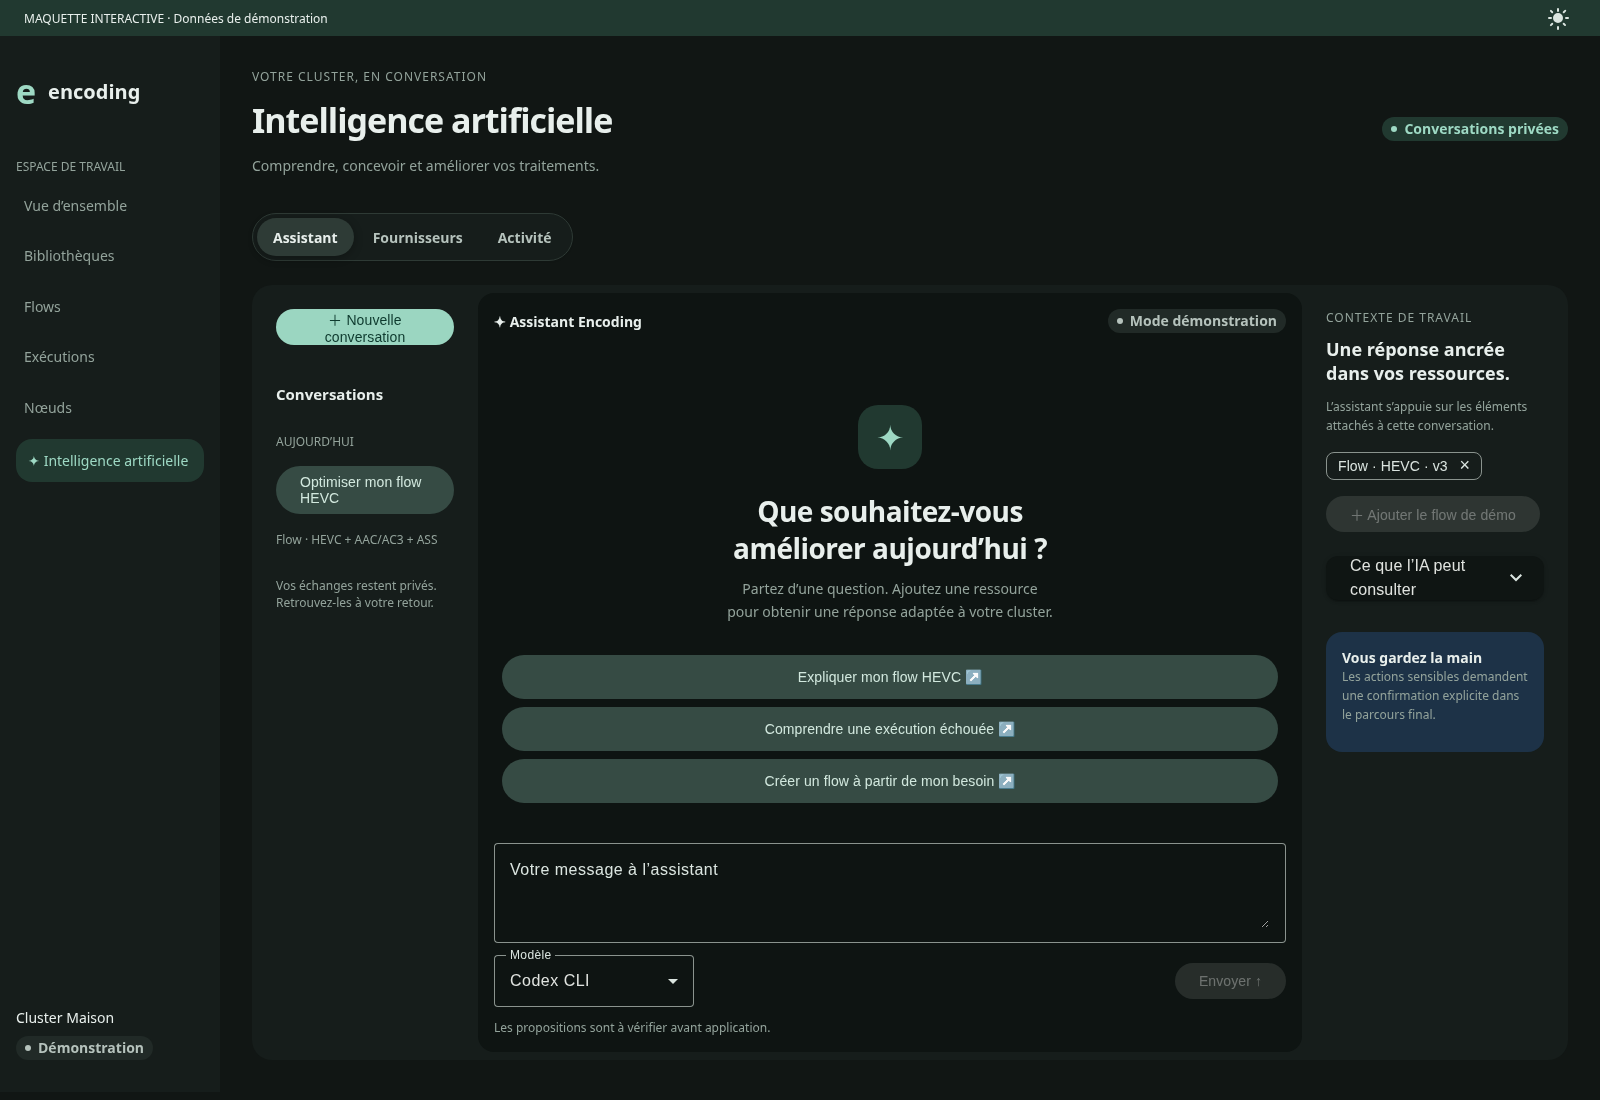
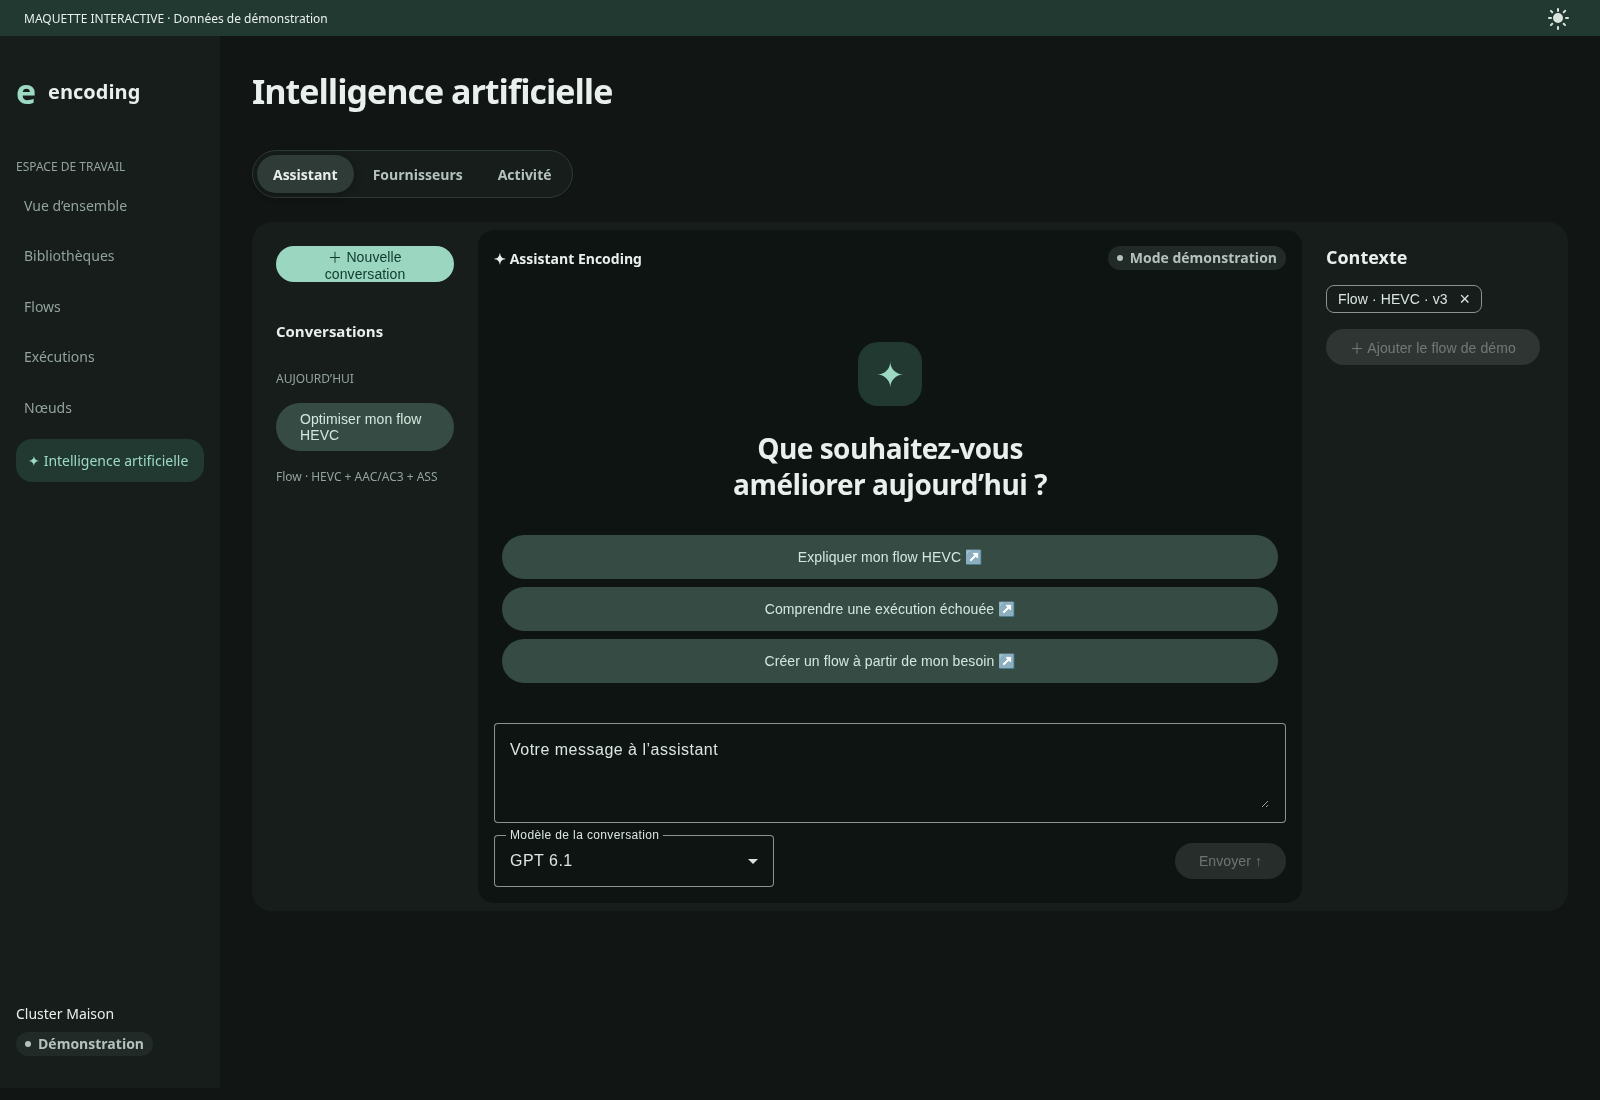
design(ai): simplify workspace and add model availability controls

diff --git a/frontend/mockups/ai/mockup.html b/frontend/mockups/ai/mockup.html
@@ -18,11 +18,8 @@
   <main>
     <header class="page-heading">
       <div>
-        <div class="eyebrow">VOTRE CLUSTER, EN CONVERSATION</div>
         <h1>Intelligence artificielle</h1>
-        <p>Comprendre, concevoir et améliorer vos traitements.</p>
       </div>
-      <app-status-badge label="Conversations privées" tone="accent" />
     </header>
     <app-category-tabs
       label="Espace IA"
@@ -40,7 +37,6 @@
             Optimiser mon flow HEVC
           </button>
           <p class="muted">Flow · HEVC + AAC/AC3 + ASS</p>
-          <span class="muted">Vos échanges restent privés.<br />Retrouvez-les à votre retour.</span>
         </aside>
         <section class="chat" aria-label="Assistant">
           <div class="chat-toolbar">
@@ -52,10 +48,6 @@
               <div class="welcome">
                 <div class="spark">✦</div>
                 <h2>Que souhaitez-vous<br />améliorer aujourd’hui ?</h2>
-                <p>
-                  Partez d’une question. Ajoutez une ressource<br />pour obtenir une réponse adaptée
-                  à votre cluster.
-                </p>
               </div>
               <div class="suggestions">
                 @for (suggestion of suggestions; track suggestion) {
@@ -103,23 +95,26 @@
             </mat-form-field>
             <div class="compose-actions">
               <mat-form-field appearance="outline" subscriptSizing="dynamic"
-                ><mat-label>Modèle</mat-label
+                ><mat-label>Modèle de la conversation</mat-label
                 ><mat-select [ngModel]="model()" (ngModelChange)="model.set($event)" name="model">
-                  @for (provider of providers; track provider) {
-                    <mat-option [value]="provider">{{ provider }}</mat-option>
+                  @for (group of modelGroups; track group.provider) {
+                    <mat-optgroup [label]="group.provider">
+                      @for (option of group.models; track option.id) {
+                        @if (!disabledModels().includes(option.id)) {
+                          <mat-option [value]="option.id">{{ option.label }}</mat-option>
+                        }
+                      }
+                    </mat-optgroup>
                   }
                 </mat-select></mat-form-field
-              ><button matButton="filled" type="submit" [disabled]="!prompt().trim()">
+              ><button matButton="filled" type="submit" [disabled]="!prompt().trim() || !model()">
                 Envoyer ↑
               </button>
             </div>
-            <small>Les propositions sont à vérifier avant application.</small>
           </form>
         </section>
         <aside class="context">
-          <div class="eyebrow">CONTEXTE DE TRAVAIL</div>
-          <h2>Une réponse ancrée<br />dans vos ressources.</h2>
-          <p>L’assistant s’appuie sur les éléments attachés à cette conversation.</p>
+          <h2>Contexte</h2>
           <mat-chip-set aria-label="Ressources attachées">
             @if (context()) {
               <mat-chip (removed)="context.set(false)"
@@ -129,26 +124,8 @@
               >
             }</mat-chip-set
           ><button matButton="tonal" [disabled]="context()" (click)="context.set(true)">
-            ＋ Ajouter le flow de démo</button
-          ><mat-accordion
-            ><mat-expansion-panel
-              ><mat-expansion-panel-header
-                ><mat-panel-title
-                  >Ce que l’IA peut consulter</mat-panel-title
-                ></mat-expansion-panel-header
-              >
-              <p>
-                Les ressources attachées et leurs informations applicatives. Aucun média n’est
-                transmis dans cette maquette.
-              </p></mat-expansion-panel
-            ></mat-accordion
-          >
-          <div class="context-note">
-            <strong>Vous gardez la main</strong>
-            <p>
-              Les actions sensibles demandent une confirmation explicite dans le parcours final.
-            </p>
-          </div>
+            ＋ Ajouter le flow de démo
+          </button>
         </aside>
       </div>
     }
@@ -176,6 +153,22 @@
             </article>
           }
         </div>
+        <h2>Modèles disponibles</h2>
+        <div class="model-settings">
+          @for (group of modelGroups; track group.provider) {
+            <section>
+              <h3>{{ group.provider }}</h3>
+              @for (option of group.models; track option.id) {
+                <mat-slide-toggle
+                  [checked]="!disabledModels().includes(option.id)"
+                  (change)="toggleModel(option.id, $event.checked)"
+                  >{{ option.label }}</mat-slide-toggle
+                >
+              }
+            </section>
+          }
+        </div>
+        <p>Ollama · Non configuré</p>
         <p class="muted">Quotas : indisponibles dans la démonstration. Aucun pourcentage estimé.</p>
       </section>
     }

diff --git a/frontend/mockups/ai/main.ts b/frontend/mockups/ai/main.ts
@@ -5,8 +5,8 @@ import { MatButtonModule } from '@angular/material/button';
 import { MatFormFieldModule } from '@angular/material/form-field';
 import { MatInputModule } from '@angular/material/input';
 import { MatSelectModule } from '@angular/material/select';
+import { MatSlideToggleModule } from '@angular/material/slide-toggle';
 import { MatChipsModule } from '@angular/material/chips';
-import { MatExpansionModule } from '@angular/material/expansion';
 import { ThemeToggleComponent } from '../../src/app/core/theme/theme-toggle.component';
 import { StatusBadgeComponent } from '../../src/app/shared/ui/status-badge.component';
 import { CategoryTabsComponent } from '../../src/app/shared/ui/category-tabs.component';
@@ -22,7 +22,7 @@ import { NotificationService } from '../../src/app/shared/services/notification.
     MatInputModule,
     MatSelectModule,
     MatChipsModule,
-    MatExpansionModule,
+    MatSlideToggleModule,
     ThemeToggleComponent,
     StatusBadgeComponent,
     CategoryTabsComponent,
@@ -37,13 +37,36 @@ class AiMockup {
   readonly context = signal(true);
   readonly prompt = signal('');
   readonly messages = signal<string[]>([]);
-  readonly model = signal('Codex CLI');
+  readonly model = signal('gpt-6.1');
+  readonly modelGroups = [
+    { provider: 'OpenAI · Codex', models: [{ id: 'gpt-6.1', label: 'GPT 6.1' }] },
+    {
+      provider: 'Anthropic · Claude Code',
+      models: [
+        { id: 'claude-opus', label: 'Claude Opus' },
+        { id: 'claude-sonnet', label: 'Claude Sonnet' },
+        { id: 'claude-haiku', label: 'Claude Haiku' },
+      ],
+    },
+  ];
   readonly tabs = [
     { value: 'assistant', label: 'Assistant' },
     { value: 'providers', label: 'Fournisseurs' },
     { value: 'activity', label: 'Activité' },
   ];
-  readonly providers = ['Codex CLI', 'Claude Code', 'Ollama'];
+  readonly providers = ['Codex CLI', 'Claude Code'];
+  readonly disabledModels = signal<readonly string[]>([]);
+  toggleModel(id: string, enabled: boolean) {
+    this.disabledModels.update((ids) =>
+      enabled ? ids.filter((item) => item !== id) : [...ids, id],
+    );
+    if (!enabled && this.model() === id) {
+      const fallback = this.modelGroups
+        .flatMap((group) => group.models)
+        .find((item) => !this.disabledModels().includes(item.id));
+      this.model.set(fallback?.id ?? '');
+    }
+  }
   readonly suggestions = [
     'Expliquer mon flow HEVC',
     'Comprendre une exécution échouée',

diff --git a/frontend/mockups/ai/mockup.scss b/frontend/mockups/ai/mockup.scss
@@ -182,7 +182,8 @@ small {
   align-items: center;
 }
 .compose-actions mat-form-field {
-  max-width: 200px;
+  width: 280px;
+  max-width: 100%;
   min-width: 0;
 }
 .context h2 {
@@ -191,18 +192,8 @@ small {
 .context p {
   font-size: var(--font-label);
 }
-.context mat-accordion {
-  display: block;
-  margin-top: var(--space-5);
-}
 .context > button {
   margin-top: var(--space-3);
-}
-.context-note {
-  margin-top: var(--space-6);
-  padding: var(--space-4);
-  background: var(--tertiary-soft);
-  border-radius: var(--radius-lg);
 }
 .bubble {
   padding: var(--space-4);
@@ -311,4 +302,17 @@ small {
   .compose-actions {
     flex-wrap: wrap;
   }
+}
+
+.model-settings {
+  display: grid;
+  gap: var(--space-4);
+  margin-block: var(--space-5);
+}
+.model-settings section {
+  background: var(--surface-container);
+  padding: var(--space-4);
+  border-radius: var(--radius-lg);
+  display: grid;
+  gap: var(--space-4);
 }

diff --git a/frontend/mockups/ai/README.md b/frontend/mockups/ai/README.md
@@ -23,7 +23,9 @@ node mockups/ai/verify.cjs
 
 Ce script vérifie le parcours, l’absence de débordement horizontal à 390 px, les erreurs navigateur et l’accessibilité WCAG AA du thème clair sur mobile. Il produit les captures ordinateur et mobile. Les valeurs de quotas indisponibles restent explicitement indisponibles.
 
-L’intégration finale devra réutiliser les services IA et les confirmations existantes. La sélection de modèle est illustrative ; le parcours réel conserve le modèle d’une conversation déjà créée. Les ressources de démonstration restent limitées à un flow pour cette proposition.
+L’intégration finale devra réutiliser les services IA et les confirmations existantes. Le sélecteur liste les modèles de démonstration par fournisseur (GPT 6.1, Claude Opus, Sonnet et Haiku) et reste accessible pendant la conversation. L’intégration devra alimenter la liste depuis les modèles disponibles et prendre en charge le changement de modèle côté backend. Les ressources de démonstration restent limitées à un flow pour cette proposition.
 
 Pour générer le fichier HTML autonome après compilation : `node mockups/ai/package.mjs`.
 Le résultat est `dist/ai-mockup/browser/maquette-ia.html`.
+
+Dans Fournisseurs, chaque modèle peut être activé ou désactivé. Les modèles désactivés disparaissent du sélecteur ; désactiver le modèle sélectionné sélectionne le premier modèle actif. Sans modèle actif, l’envoi est désactivé. Ces réglages sont simulés en mémoire et réinitialisés au rechargement. Ollama est explicitement non configuré et ne fournit aucun modèle par défaut.
